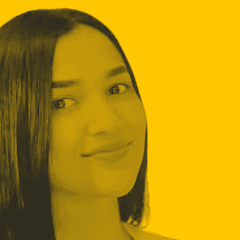
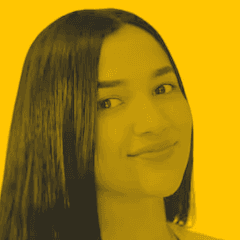
feat: apply round 2 feedback from Arianna (visuals, layout & sections)

diff --git a/src/content.config.ts b/src/content.config.ts
@@ -89,7 +89,7 @@ const landing = defineCollection({
             pill: claim.optional(),
           }),
         )
-        .length(5),
+        .length(4),
     }),
     // Cuatro integrantes exactos: la rejilla de 1, 2 y 4 columnas depende del conteo. La introducción presenta al
     // equipo. Las tarjetas con `link` son enlaces completos, con URL https y un complemento solo para lectores.
